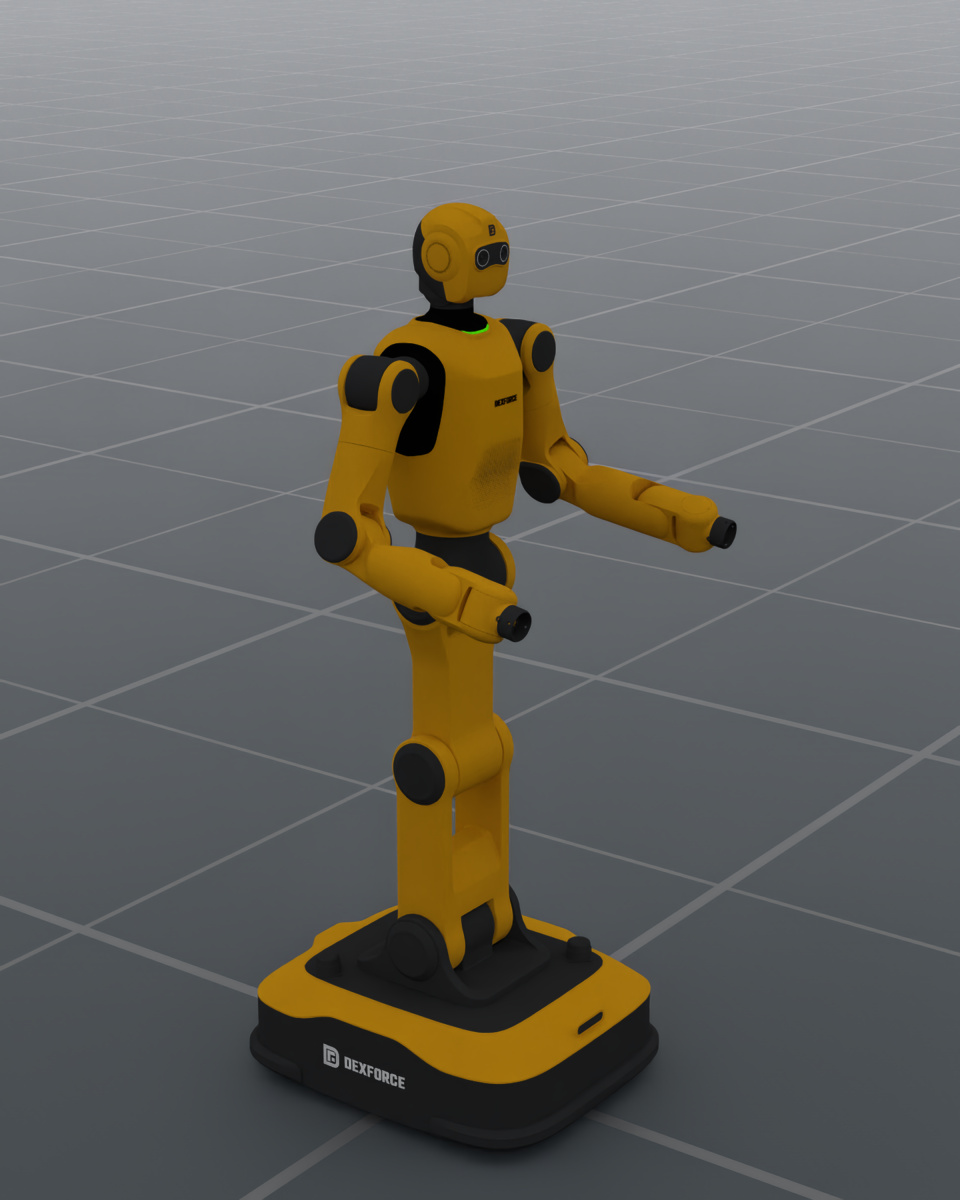
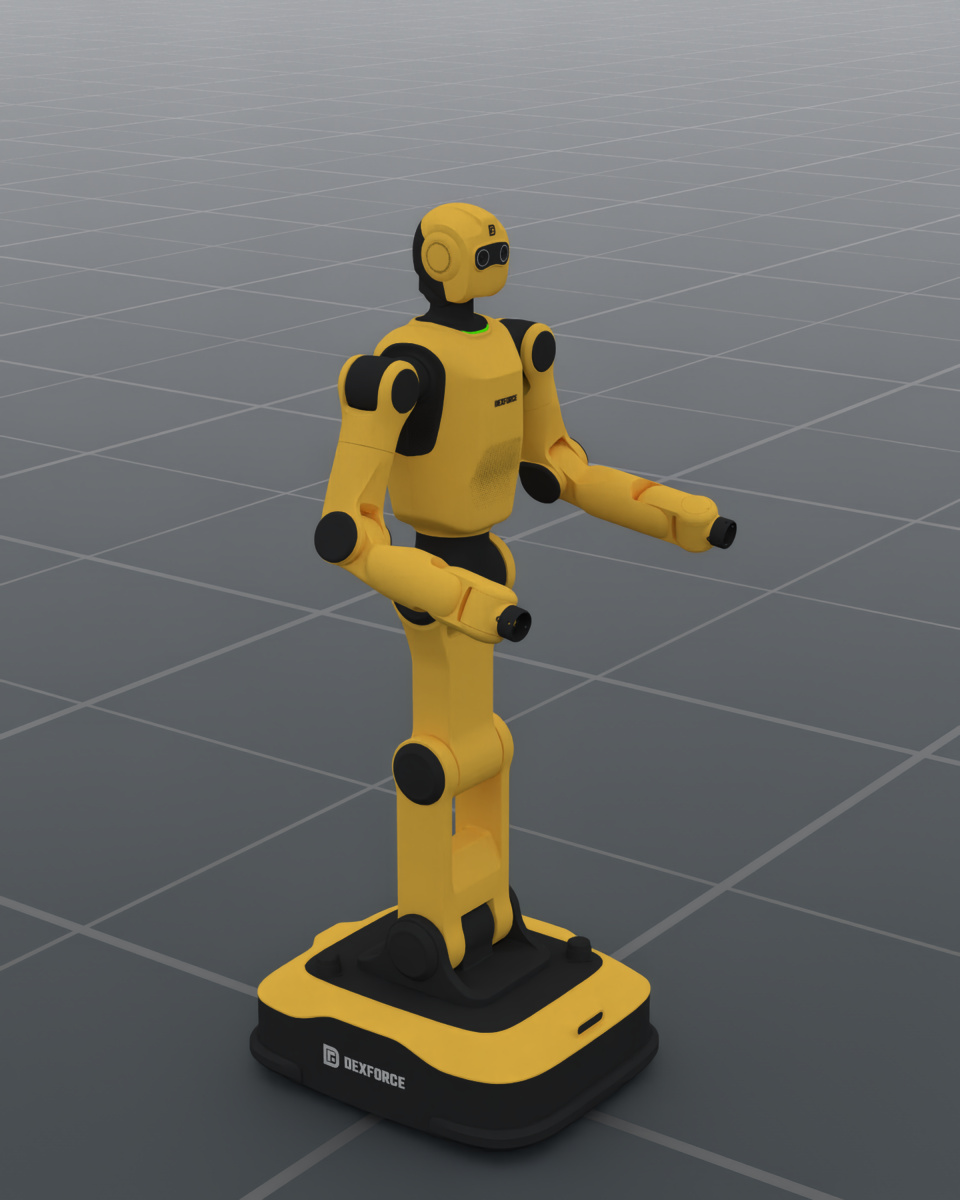
Align W1 V030 rendering materials with V021 (#853)

Changed region(s): [[0.3125, 0.1542, 0.75, 0.8017], [0.25, 0.7708, 0.6875, 0.925], [0.5625, 0.7708, 0.5938, 0.8017]]

diff --git a/embodichain/data/assets/w1_assets.py b/embodichain/data/assets/w1_assets.py
@@ -158,8 +158,9 @@ class DexforceW1V030(EmbodiChainDataset):
 
     The archive is published at ``dexforce_w1/v030/w1.zip`` with
     ``w1/robot.urdf`` and the five component URDFs. Component visuals and
-    inertials match the corrected full body. Wrist camera and gripper assets
-    belong to independently assembled attachments.
+    inertials match the corrected full body. Its yellow and dark plastic
+    materials match V021. Wrist camera and gripper assets belong to independently
+    assembled attachments.
 
     Args:
         data_root: Download and extraction cache root. Defaults to the configured
@@ -169,7 +170,7 @@ class DexforceW1V030(EmbodiChainDataset):
     def __init__(self, data_root: str | None = None) -> None:
         descriptor = o3d.data.DataDescriptor(
             os.path.join(EMBODICHAIN_DOWNLOAD_PREFIX, w1_assets, "v030", "w1.zip"),
-            "74ff7e835160f7309d32ade116172c52",
+            "c3fa8994563f729a0e8387e2129a28c1",
         )
         path = EMBODICHAIN_DEFAULT_DATA_ROOT if data_root is None else data_root
         super().__init__(type(self).__name__, descriptor, path)

diff --git a/docs/source/resources/robot/dexforce_w1.md b/docs/source/resources/robot/dexforce_w1.md
@@ -19,6 +19,9 @@ Both images are captured from the registered robot presets using the same
 camera, bent-elbow display pose and current `RenderCfg(renderer="rt")`
 defaults (OfflineRT), with default scene lighting.
 The display pose is for illustration; it does not change the preset home pose.
+V030 uses the V021 yellow (`#F8C349`) and dark
+(`#2E2E2E`) plastic palette with matching roughness, retaining V030 geometry
+and markings.
 
 :::{dropdown} Image rendering settings
 960 × 1200; 1 sample per pixel; DLSS offscreen reconstruction (quality 2);
@@ -26,6 +29,8 @@ tone mapping off; exposure 1.0; path depths 4–8. The scene uses the default
 ground and environment emission, with no added direct lights. Camera settings,
 joint positions and the V030 asset revision are recorded in the
 [render manifest](../../_static/robots/dexforcew1_render.json).
+The manifest also records the V021 material parameters and the published
+archive checksums.
 :::
 
 ## Supported Body Revisions
